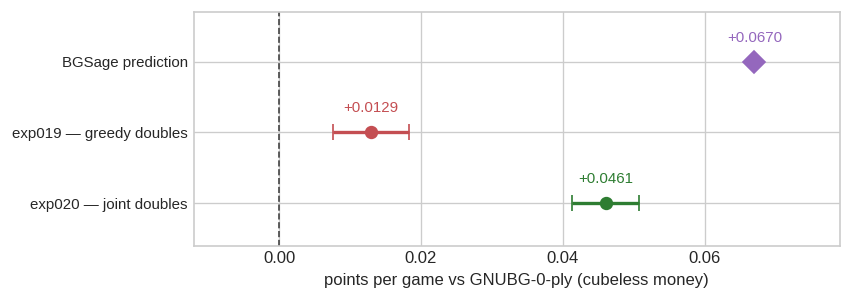
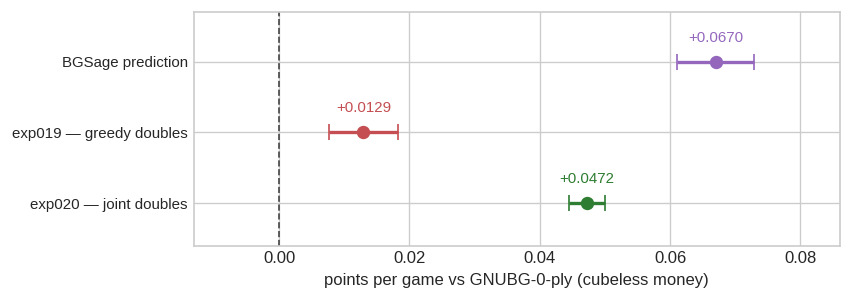
Built site for gh-pages

diff --git a/variance_reduction.html b/variance_reduction.html
@@ -426,7 +426,7 @@ window.Quarto = {
 <section id="how-much-does-it-buy" class="level2">
 <h2 class="anchored" data-anchor-id="how-much-does-it-buy">How much does it buy?</h2>
 <p>Two independent sets of matches, played with the same network against the same opponent: twenty matches of fifty games with variance reduction <strong>off</strong>, then twenty more with it <strong>on</strong>, on different dice. Nothing is shared between the two sets — they are separate samples of the same process, which is legitimate precisely because enabling the correction does not change how the games are played.</p>
-<div id="66010ee7" class="cell" data-execution_count="6">
+<div id="04507aed" class="cell" data-execution_count="6">
 <div class="cell-output cell-output-display">
 <div>
 <figure class="figure">
@@ -466,7 +466,7 @@ window.Quarto = {
 <p>They also agree on the answer — the arm means differ by +0.0686 ± 0.0970, which is consistent with zero. That is a weak statement rather than a strong one, and worth being explicit about: the interval is wide almost entirely because of the raw arm, which is exactly the problem being solved. It rules out a gross bias, not a subtle one; the sharp unbiasedness evidence is the exact zero-mean property above.</p>
 <section id="why-it-works-this-well" class="level3">
 <h3 class="anchored" data-anchor-id="why-it-works-this-well">Why it works this well</h3>
-<div id="8b572b81" class="cell" data-execution_count="8">
+<div id="2146c8f0" class="cell" data-execution_count="8">
 <div class="cell-output cell-output-display">
 <div>
 <figure class="figure">
@@ -690,19 +690,24 @@ window.Quarto = {
 </tbody>
 </table>
 <p>Both arms: n = 6,000 games, identical weights, identical seeds. The two estimates are independent samples, so the CI on the difference is computed unpaired — the conservative choice, since shared dice can only help.</p>
+<p>That table answers <em>did the fix work</em>, and it deliberately uses only the games that share exp019’s seeds so the two arms are like-for-like. It is <strong>not</strong> the sharpest estimate of how strong the engine now is. For that, those 6,000 games pool with a further 12,000 on disjoint seeds:</p>
+<blockquote class="blockquote">
+<p><strong><code>ep22</code> with joint doubles = +0.0472 ± 0.0027 ppg vs GNUBG-0-ply</strong> (variance-reduced, cubeless money, n = 18,000).</p>
+</blockquote>
+<p>Tripling the sample narrowed the interval from ±0.0047 to ±0.0027 — from 10% of the estimate down to 6%. That is the number to quote for the engine’s strength; the +0.0331 gain above is the number to quote for what the fix was worth.</p>
 <p>The gain is real: executing a doubles turn jointly rather than greedily is worth <strong>+0.0331 ppg</strong>, with the weights untouched. <code>ep22</code>’s PR is still 0.95 — that metric scores complete moves and never enters this code path — so the network did not get stronger. It stopped throwing points away on 1/6 of its turns. Free, and invisible to every benchmark the project runs.</p>
 <p>Set against the 0.054 ppg the benchmark seemed to promise and play did not deliver, this recovers <strong>61%</strong>.</p>
 <p>And the two halves of the experiment agree. Stage 1 added up equity conceded at individual decisions and predicted a cost of +0.0345 ± 0.0042 ppg. Stage 2 measured the change in who actually won, and got +0.0331. Those are different quantities computed from different games by different means — a sum of per-decision GNUBG equity errors on one side, a difference of variance-reduced game outcomes on the other — and they land 0.0014 apart. That agreement is the strongest evidence on this page that both instruments are working.</p>
-<p><strong>+0.021 ppg still separates the two.</strong> To know whether that gap is real rather than two noisy numbers disagreeing, the prediction needs an error bar of its own — which exp019 never gave it. Scoring both engines on the same 14,693 benchmark decisions and differencing them <strong>per decision</strong> (paired, so the position-to-position variation cancels) gives a predicted <strong>+0.0670 ± 0.0059</strong> against a measured +0.0461 ± 0.0047. The residual is <strong>+0.0210 ± 0.0076</strong>, z = 5.44. It is real.</p>
-<p>It is also not something more games can settle. <strong>61% of that interval’s variance comes from the benchmark prediction, not from the play measurement</strong> — tripling to n=18,000 would tighten the residual only from ±0.0076 to ±0.0065, and even <em>infinitely</em> many games would only reach ±0.0059. The bottleneck is on the benchmark’s side.</p>
+<p><strong>+0.020 ppg still separates the two.</strong> To know whether that gap is real rather than two noisy numbers disagreeing, the prediction needs an error bar of its own — which exp019 never gave it. Scoring both engines on the same 14,693 benchmark decisions and differencing them <strong>per decision</strong> (paired, so the position-to-position variation cancels) gives a predicted <strong>+0.0670 ± 0.0059</strong> against the measured +0.0472 ± 0.0027. The residual is <strong>+0.0198 ± 0.0065</strong>, z = 5.96. It is real.</p>
+<p>It is also not something more games can settle, and that is now measured rather than argued: the play sample was tripled to 18,000 games, and <strong>82% of the residual’s remaining variance comes from the benchmark prediction rather than from play</strong>. Even <em>infinitely</em> many further games would only take the interval from ±0.0065 to ±0.0059. The bottleneck is on the benchmark’s side.</p>
 <p>So the residue stands as the other exp019 explanation predicted: BGSage’s positions come from Sage 3-ply self-play, and an error-rate advantage measured there need not transfer intact to the distribution <code>ep22</code> generates against GNUBG. Testing <em>that</em> needs a different experiment — scoring both engines on positions drawn from their own head-to-head games — not a longer run of this one.</p>
 <p>One assumption underneath all of it deserves naming: converting an error <em>rate</em> into points per game assumes per-decision equity errors accumulate linearly into the final result. That is a model, not an identity. exp020 happens to calibrate it — stage 1 summed per-decision errors over real games and predicted +0.0345, stage 2 measured +0.0331 in outcomes, so the assumption is good to about 4% over this range. Applying that same correction to the benchmark’s 0.0670 would move it by under 0.003 and leave the residual intact.</p>
-<div id="37b85085" class="cell" data-execution_count="17">
+<div id="65dd88d1" class="cell" data-execution_count="17">
 <div class="cell-output cell-output-display">
 <div class="quarto-figure quarto-figure-center">
 <figure class="figure">
 <p><img src="variance_reduction_files/figure-html/cell-18-output-1.png" class="img-fluid figure-img"></p>
-<figcaption>Where the points went. The benchmark’s prediction, the engine as exp019 measured it, and the same engine with doubles executed jointly — same weights, same opponent, same 6,000 seeds.</figcaption>
+<figcaption>Where the points went. The benchmark’s prediction (with its own paired interval), the engine as exp019 measured it, and the same weights with doubles executed jointly over 18,000 games.</figcaption>
 </figure>
 </div>
 </div>
@@ -715,7 +720,7 @@ window.Quarto = {
 <p>The static <a href="./pretraining_analysis.html">BGSage</a> numbers are untouched. PR and value-head MSE score complete moves against fixed references and never enter this code path — which is exactly why the disagreement between the two families of metric was the clue worth chasing.</p>
 <p><strong>Conclusion.</strong></p>
 <blockquote class="blockquote">
-<p>Is Raccoon’s two-step doubles execution a strength bug worth fixing? → <strong>Yes</strong>: joint enumeration is worth <strong>+0.0331 ppg</strong> (z = +9.14), taking <code>ep22</code> from +0.0129 ± 0.0053 to <strong>+0.0461 ± 0.0047</strong> (variance-reduced ppg vs GNUBG-0-ply, n=6,000 each, identical weights).</p>
+<p>Is Raccoon’s two-step doubles execution a strength bug worth fixing? → <strong>Yes</strong>: joint enumeration is worth <strong>+0.0331 ppg</strong> (z = +9.14), lifting <code>ep22</code> from +0.0129 ± 0.0053 to +0.0461 ± 0.0047 on matched seeds (variance-reduced ppg vs GNUBG-0-ply, n=6,000 each, identical weights). Pooled over n=18,000 games, the fixed engine stands at <strong>+0.0472 ± 0.0027</strong>.</p>
 </blockquote>
 </section>
 </section>

diff --git a/index.html b/index.html
@@ -264,8 +264,8 @@ pre > code.sourceCode > span > a:first-child::before { text-decoration: underlin
 </table>
 <p><em>Raccoon figure: checkpoint <code>exp017-ep12</code>, the current best network — a 10-block, 256-channel ResNet trained on 40M positions distilled from GNUBG’s 2-ply search. GNUBG figures scored on the identical benchmark. Full method and per-epoch curves: <a href="./pretraining_analysis.html">Supervised &amp; Expert-Iteration Analysis</a>.</em></p>
 <p>Read plainly: <strong>at equal cost, Raccoon’s checker play is well past GNUBG’s own network</strong>, and it has closed most of the distance to GNUBG’s 2-ply search while doing no search at all.</p>
-<p>That now holds over the board, not just on the benchmark. The current cube-capable network wins <strong>+0.046 ± 0.005 points per game</strong> against GNUBG at 0-ply over 6,000 cubeless money games — the first time a Raccoon network has been shown to beat the teacher it was distilled from in actual play (<a href="./variance_reduction.html#exp020">exp020</a>). An earlier checkpoint had measured −0.053 ± 0.046 on the same yardstick, a real if small deficit (<a href="./pretraining_analysis.html">exp011b</a>).</p>
-<p>The plain, unadjusted average over those same 6,000 games is +0.018 ± 0.035 and settles nothing. The edge is only visible because the games were scored with <a href="./variance_reduction.html">variance-reduced rollouts</a>, which are worth about 55× as many games — reading the same result to ±0.005 instead of ±0.035.</p>
+<p>That now holds over the board, not just on the benchmark. The current cube-capable network wins <strong>+0.047 ± 0.003 points per game</strong> against GNUBG at 0-ply over 18,000 cubeless money games — the first time a Raccoon network has been shown to beat the teacher it was distilled from in actual play (<a href="./variance_reduction.html#exp020">exp020</a>). An earlier checkpoint had measured −0.053 ± 0.034 on the same yardstick, a real if small deficit (<a href="./pretraining_analysis.html">exp011b</a>).</p>
+<p>The plain, unadjusted average over those same 18,000 games is +0.048 ± 0.020 and would settle far less. The edge is measurable at this precision because the games were scored with <a href="./variance_reduction.html">variance-reduced rollouts</a>, worth about 54× as many games — reading the same result to ±0.003 instead of ±0.020. Getting there the ordinary way would have taken roughly <strong>970,000 games</strong>.</p>
 <p>Two thirds of that margin was found rather than trained. The first measurement came in at only +0.013 ± 0.005 (<a href="./variance_reduction.html#exp019">exp019</a>), well short of what the benchmark predicted, and chasing the gap turned up a bug: on doubles, the engine chose its four half-moves two at a time instead of all together, conceding <strong>0.062 points</strong> on the one doubles turn in six where that mattered. Fixing the search — not the network — was worth <strong>+0.033 ppg</strong> (<a href="./variance_reduction.html#exp020">exp020</a>).</p>
 <p>The honest caveats: this is <strong>checker play only, cubeless</strong>. Raccoon does not yet handle the doubling cube, which is half of competitive backgammon. It is a research engine, not a product.</p>
 </section>
